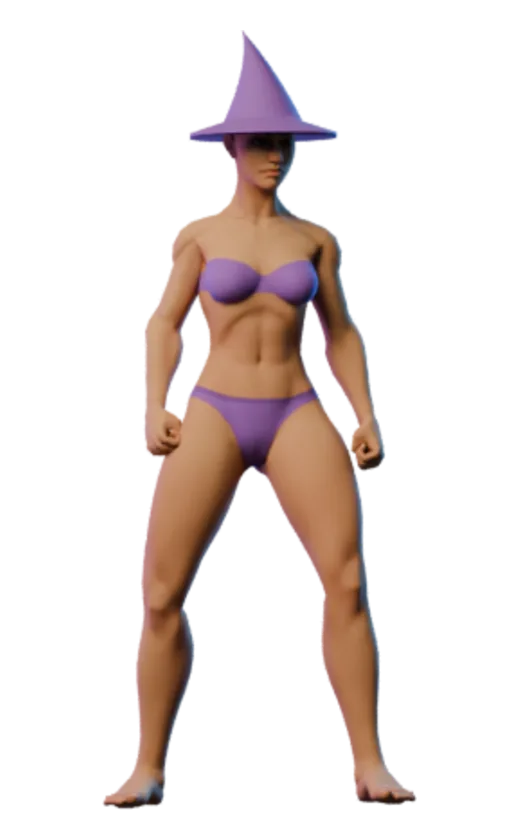
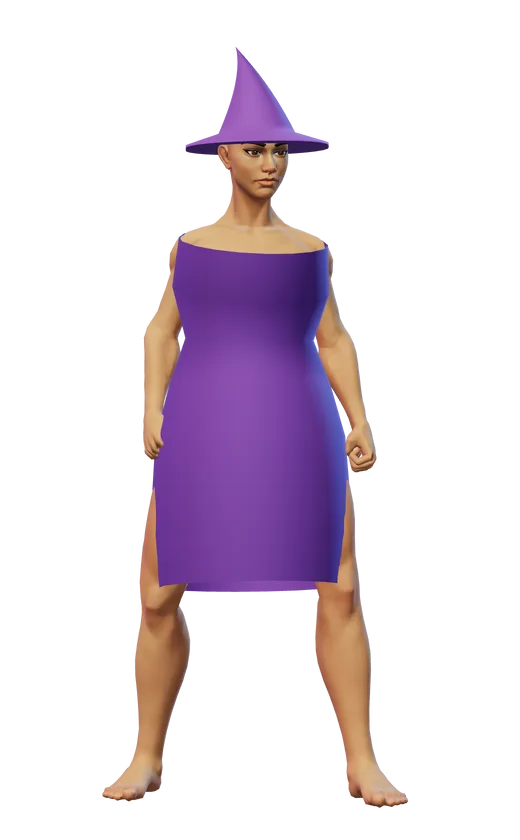
Give the female wizard a robe and strap every jetpack on
The girl mesh ships in a bikini, and the pack sat clear of the back with nothing holding it. A purple robe covers her, and leather straps seat the barrels on every body.

Changed region(s): [[0.1846, 0.031, 0.8, 0.9595]]

diff --git a/src/pov/garb.js b/src/pov/garb.js
@@ -4,11 +4,13 @@ import * as THREE from 'three';
 // cone, the tip bent back), built once per loaded model, seated on the head and
 // skinned wholly to the head bone, so every clip (walk, swim, death...) carries
 // it. Below it he wears only his boxers, dyed the hat's purple when the model is
-// packed (tools/character-pack.mjs): wizard boxers.
+// packed (tools/character-pack.mjs): wizard boxers. She gets a robe over the
+// bikini the female mesh ships in, skinned to the spine so it walks with her.
 //
 // Lengths are in model units (metres); the body's own scale takes them to cells.
 
 const HEAD_BONE = 'Head';
+const ROBE_BONES = ['pelvis', 'spine_01', 'spine_02', 'spine_03'];
 
 // hat (sizes as multiples of the head's half-width)
 const HAT_BRIM = 2.0;                    // brim radius
@@ -21,7 +23,7 @@ const HAT_SEAT = 0.4;                    // brim sits this share of the head's h
 const HAT_TILT = 0.12;                   // rad back
 const HAT_RINGS = 14, HAT_SEGMENTS = 28;
 
-export const GARB_COLORS = { hat: [0.16, 0.06, 0.35] };   // albedo, linear
+export const GARB_COLORS = { hat: [0.16, 0.06, 0.35], robe: [0.11, 0.035, 0.26] };   // albedo, linear
 
 // Every body vertex in the bind pose, with its skin influences and its main bone.
 function bodyVertices(meshes) {
@@ -78,6 +80,46 @@ function buildHat(verts, boneIndex) {
   return geo;
 }
 
+function skinTo(geo, index) {
+  const n = geo.attributes.position.count;
+  const skinIdx = new Array(n * 4).fill(0), skinW = new Array(n * 4).fill(0);
+  const one = typeof index === 'function' ? null : index;
+  for (let i = 0; i < n; i++) {
+    skinIdx[i * 4] = one ?? index(i);
+    skinW[i * 4] = 1;
+  }
+  geo.setAttribute('skinIndex', new THREE.Uint16BufferAttribute(skinIdx, 4));
+  geo.setAttribute('skinWeight', new THREE.Float32BufferAttribute(skinW, 4));
+  geo.deleteAttribute('uv');
+  return geo;
+}
+
+// A closed robe from mid-thigh to the shoulders, a little clear of the body.
+// Sleeveless: the arms leave at the sides instead of punching holes in the cloth.
+function buildRobe(verts, boneIndex) {
+  const torso = verts.filter((p) => ROBE_BONES.includes(p.bone));
+  const hips = verts.filter((p) => p.bone === 'pelvis' || p.bone.startsWith('thigh'));
+  const boneY = Object.fromEntries(ROBE_BONES.map((name) => {
+    const pts = verts.filter((p) => p.bone === name);
+    return [name, pts.reduce((s, p) => s + p.y, 0) / pts.length];
+  }));
+  const nearest = (y) => ROBE_BONES.reduce((a, b) => Math.abs(boneY[b] - y) < Math.abs(boneY[a] - y) ? b : a);
+  const hem = Math.min(...hips.map((p) => p.y)) + 0.05;
+  // Stop at the shoulders. The spine reaches the neck; a tube that high floats off her.
+  const neck = Math.min(Math.max(...torso.map((p) => p.y)), boneY.spine_03 + 0.08);
+  const profile = [];
+  for (let i = 0; i <= 7; i++) {
+    const t = i / 7, y = hem + (neck - hem) * t;
+    let r = 0.07;
+    for (const p of torso.concat(hips)) if (Math.abs(p.y - y) <= 0.07) r = Math.max(r, Math.hypot(p.x, p.z));
+    profile.push([r + 0.018 + (1 - t) * 0.03, y]);
+  }
+  const robe = skinTo(new THREE.LatheGeometry(profile.map(([r, y]) => new THREE.Vector2(r, y)), 18), 0);
+  const pos = robe.attributes.position, idx = robe.attributes.skinIndex;
+  for (let i = 0; i < pos.count; i++) idx.setX(i, boneIndex(nearest(pos.getY(i))));
+  return robe;
+}
+
 // The hat's geometry, from the model's skinned meshes (bind pose). Skin indices
 // refer to meshes[0].skeleton's bones.
 export function buildGarb(meshes) {
@@ -87,5 +129,8 @@ export function buildGarb(meshes) {
     if (i < 0) throw new Error(`the character model has no ${name} bone`);
     return i;
   };
-  return { hat: buildHat(bodyVertices(meshes), boneIndex) };
+  const verts = bodyVertices(meshes);
+  const garb = { hat: buildHat(verts, boneIndex) };
+  if (meshes.some((m) => m.material?.name === 'MI_Superhero_Female')) garb.robe = buildRobe(verts, boneIndex);
+  return garb;
 }

diff --git a/src/pov/figureReal.js b/src/pov/figureReal.js
@@ -83,6 +83,32 @@ function garbFor(gltf, meshes) {
   return garbByModel.get(gltf);
 }
 
+// Pull the barrels onto the back. buildJetpack's cell offset clears a stick torso;
+// on these meshes it leaves a gap, so the pack reads as floating.
+const PACK_RADIUS = 0.32, PACK_EMBED = 0.04;
+function seatPack(pack, model) {
+  pack.updateWorldMatrix(true, true);
+  const origin = pack.getWorldPosition(new THREE.Vector3());
+  const into = new THREE.Vector3(0, 0, -1).applyQuaternion(pack.getWorldQuaternion(new THREE.Quaternion()));
+  let gap = Infinity;
+  const v = new THREE.Vector3();
+  model.traverse((o) => {
+    if (!o.isSkinnedMesh || o.name === 'hat' || o.name === 'robe' || o.name === 'sleeves') return;
+    const n = o.geometry.attributes.position.count;
+    for (let i = 0; i < n; i += Math.max(1, Math.floor(n / 2000))) {
+      o.getVertexPosition(i, v).applyMatrix4(o.matrixWorld);
+      if (Math.abs(v.y - origin.y) > 0.4) continue;   // the back at the barrels, not the hem below
+      const dx = v.x - origin.x, dy = v.y - origin.y, dz = v.z - origin.z;
+      const along = dx * into.x + dy * into.y + dz * into.z;
+      if (dx * dx + dy * dy + dz * dz - along * along < 0.2 && along > 0 && along < gap) gap = along;
+    }
+  });
+  const move = gap - PACK_RADIUS + PACK_EMBED;
+  if (!Number.isFinite(gap) || move <= 0.005) return;
+  pack.parent.worldToLocal(origin.addScaledVector(into, move));
+  pack.position.copy(origin);
+}
+
 // The body from a loaded glTF. Same per-frame state as the stickman.
 export function createRealFigure(gltf) {
   const u = figureUniforms();
@@ -165,8 +191,10 @@ export function createRealFigure(gltf) {
       mats.push(mesh.material);
     }
   });
-  // Preserve its cell-space fit while parenting to the animated chest bone.
+  // Preserve its cell-space fit while parenting to the animated chest bone, then
+  // sit the barrels on the back. The shared cell offset floats clear of her.
   spine[2].attach(jetpack.root);
+  seatPack(jetpack.root, model);
   const chestToEye = EYE_HEIGHT - spine[2].getWorldPosition(new THREE.Vector3()).y;   // cells at the plain size
   const qRoot = new THREE.Quaternion(), qBind = new THREE.Quaternion();
   const arms = {}, legs = {};

diff --git a/src/pov/figure.js b/src/pov/figure.js
@@ -217,12 +217,23 @@ export function limb(parent, albedo, x, y, len, r) {
 
 // The wizard's brass barrel pack (Noita's jetpack Hiisi), fitted to each torso.
 // Nozzle transforms are shared by the attached flames and the exhaust particles.
+// Straps run from the barrels into the back: a pack with a gap reads as floating.
+const STRAP = [0.09, 0.05, 0.035];   // dark leather, linear
 export function buildJetpack(parent, { up, back, color = [0.75, 0.42, 0.12], nozzleColor = [0.1, 0.1, 0.11] }) {
   const root = new THREE.Group();
   root.name = 'jetpack';
   root.position.set(0, up, back);
   parent.add(root);
   part(root, new THREE.CapsuleGeometry(0.32, 0.36, 4, 16).rotateZ(Math.PI / 2), color);
+  for (const side of [-1, 1]) {
+    const strap = new THREE.BoxGeometry(0.05, 0.035, 0.52);
+    strap.rotateX(-0.55);
+    strap.translate(side * 0.16, 0.2, -0.14);
+    part(root, strap, STRAP).name = 'jet-strap';
+  }
+  const belt = new THREE.BoxGeometry(0.52, 0.04, 0.035);
+  belt.translate(0, -0.02, -0.18);
+  part(root, belt, STRAP).name = 'jet-strap';
   const material = unlitMaterial({ transparent: true, depthWrite: false, blending: THREE.AdditiveBlending });
   material.color.setRGB(6, 2.6, 0.7);
   const nozzles = [], flames = [];

diff --git a/src/ui/youViewer.js b/src/ui/youViewer.js
@@ -83,13 +83,16 @@ async function loadBody(character, time) {
   });
   // the hat, skinned to his head bone as in the game
   const body = meshes.reduce((a, b) => (b.geometry.attributes.position.count > a.geometry.attributes.position.count ? b : a));
-  const { hat } = buildGarb(meshes);
-  const hatMat = new THREE.MeshStandardMaterial({ color: new THREE.Color().setRGB(...GARB_COLORS.hat), roughness: 0.85, side: THREE.DoubleSide });
-  const hatMesh = new THREE.SkinnedMesh(hat, hatMat);
-  hatMesh.frustumCulled = false;
-  hatMesh.bind(body.skeleton, body.bindMatrix);
-  body.parent.add(hatMesh);
-  meshes.push(hatMesh);
+  for (const [name, geo] of Object.entries(buildGarb(meshes))) {
+    const mat = new THREE.MeshStandardMaterial({
+      color: new THREE.Color().setRGB(...(GARB_COLORS[name] ?? GARB_COLORS.hat)), roughness: 0.85, side: THREE.DoubleSide,
+    });
+    const mesh = new THREE.SkinnedMesh(geo, mat);
+    mesh.frustumCulled = false;
+    mesh.bind(body.skeleton, body.bindMatrix);
+    body.parent.add(mesh);
+    meshes.push(mesh);
+  }
 
   // his idle clip: the breathing
   const mixer = new THREE.AnimationMixer(model);
